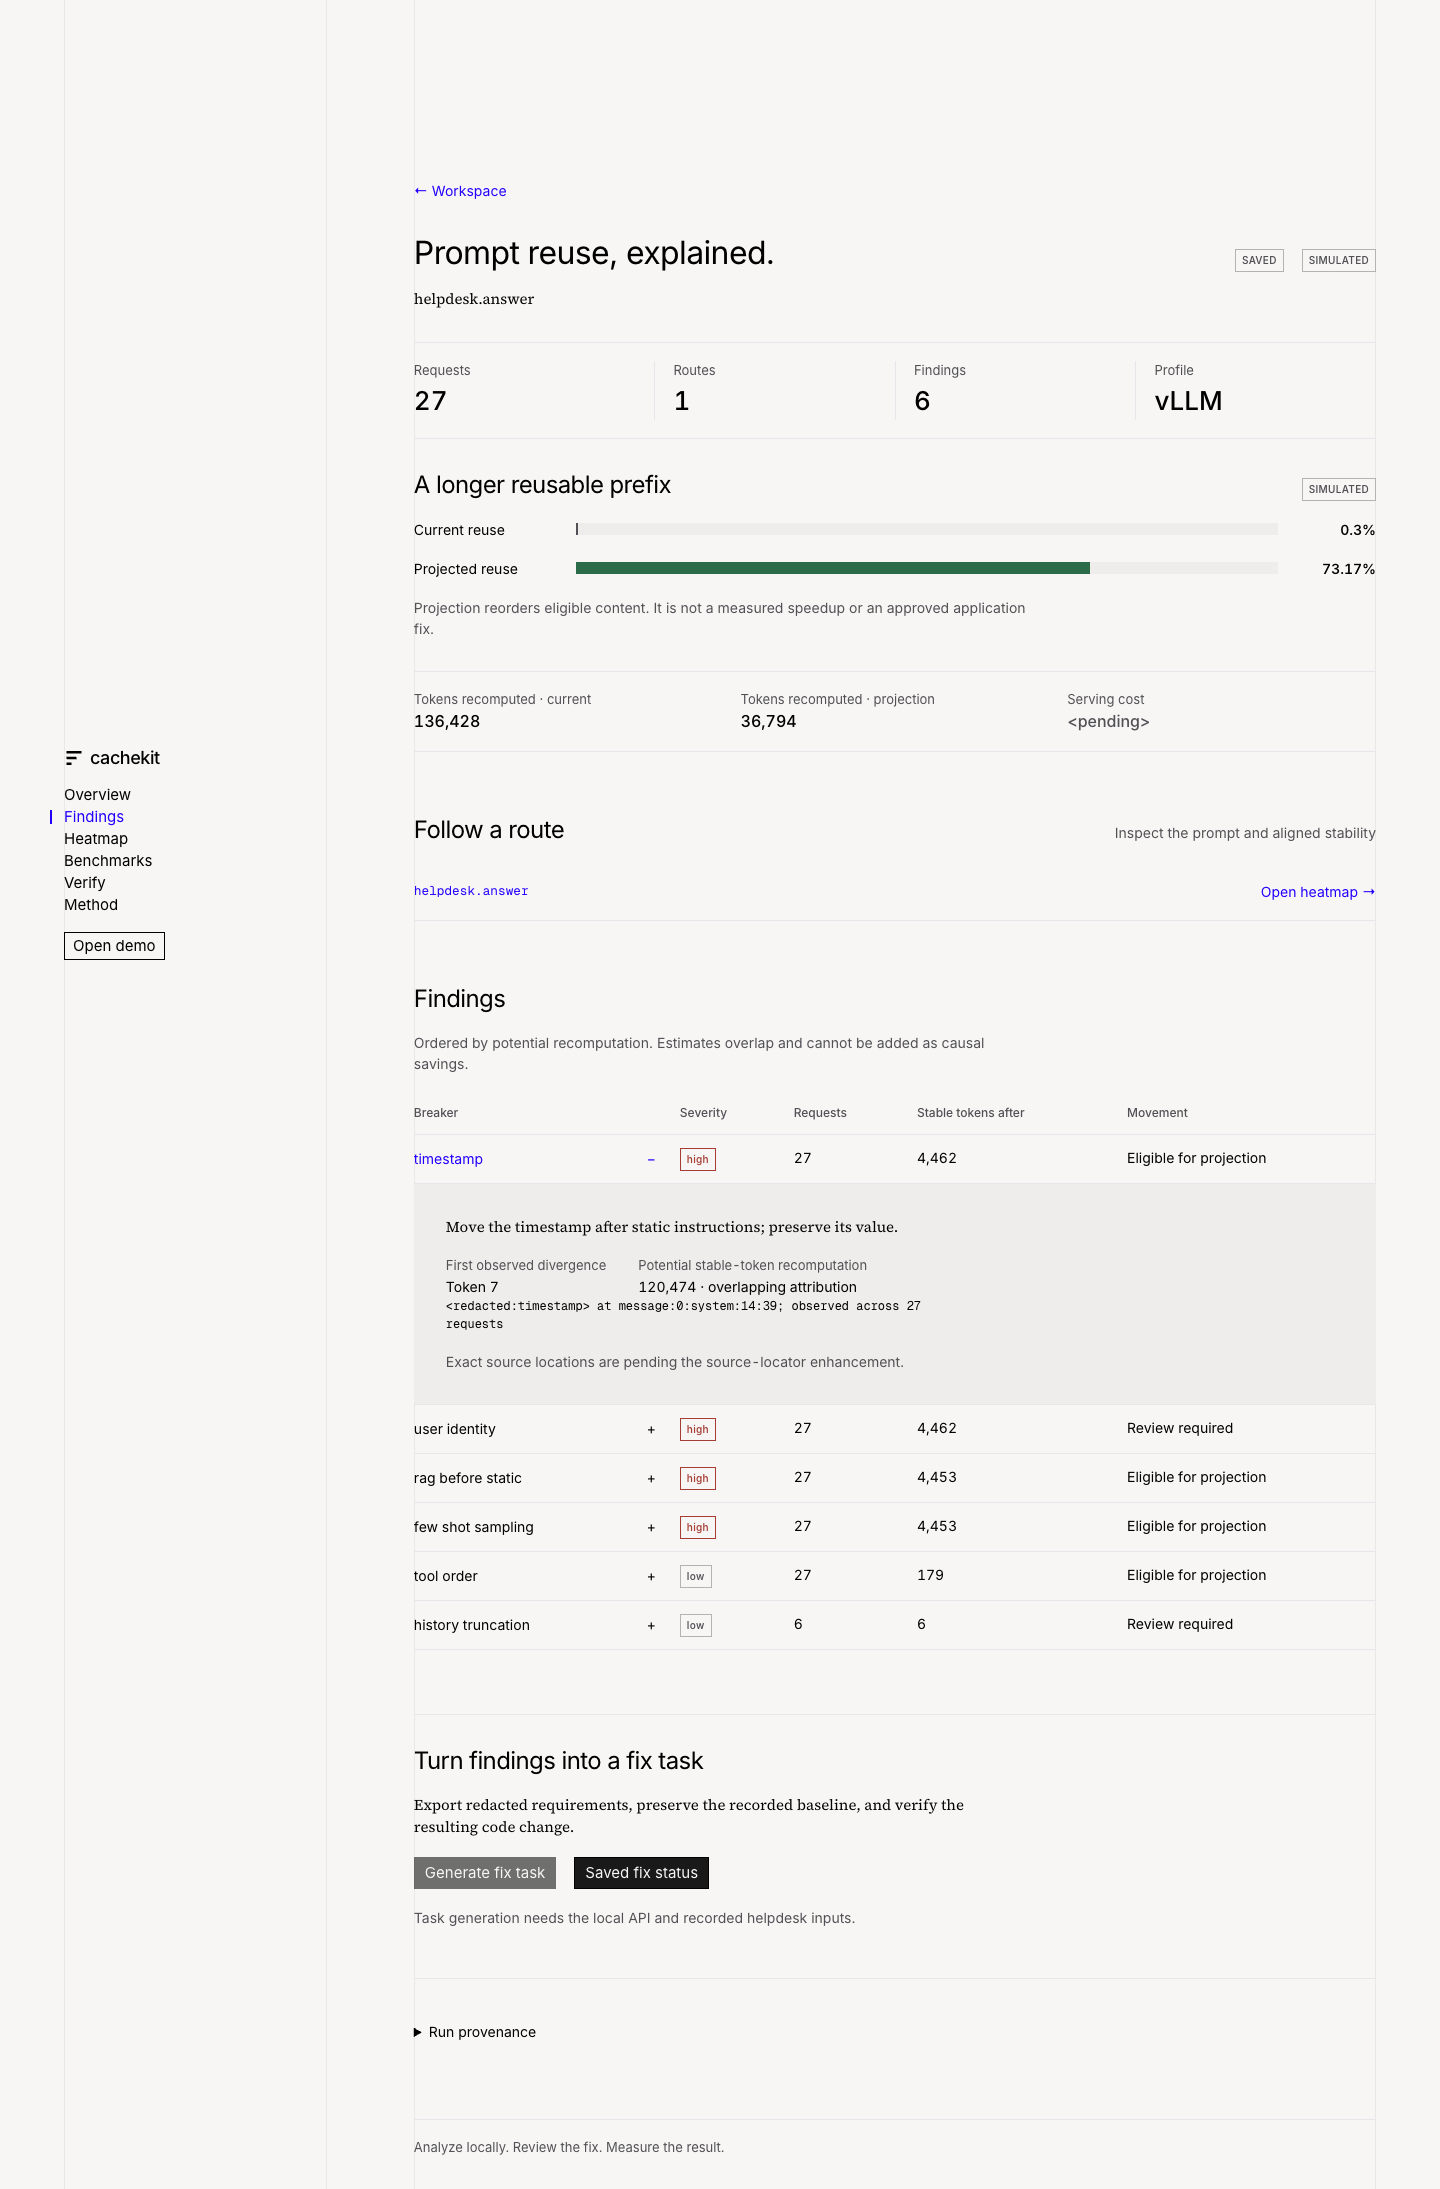
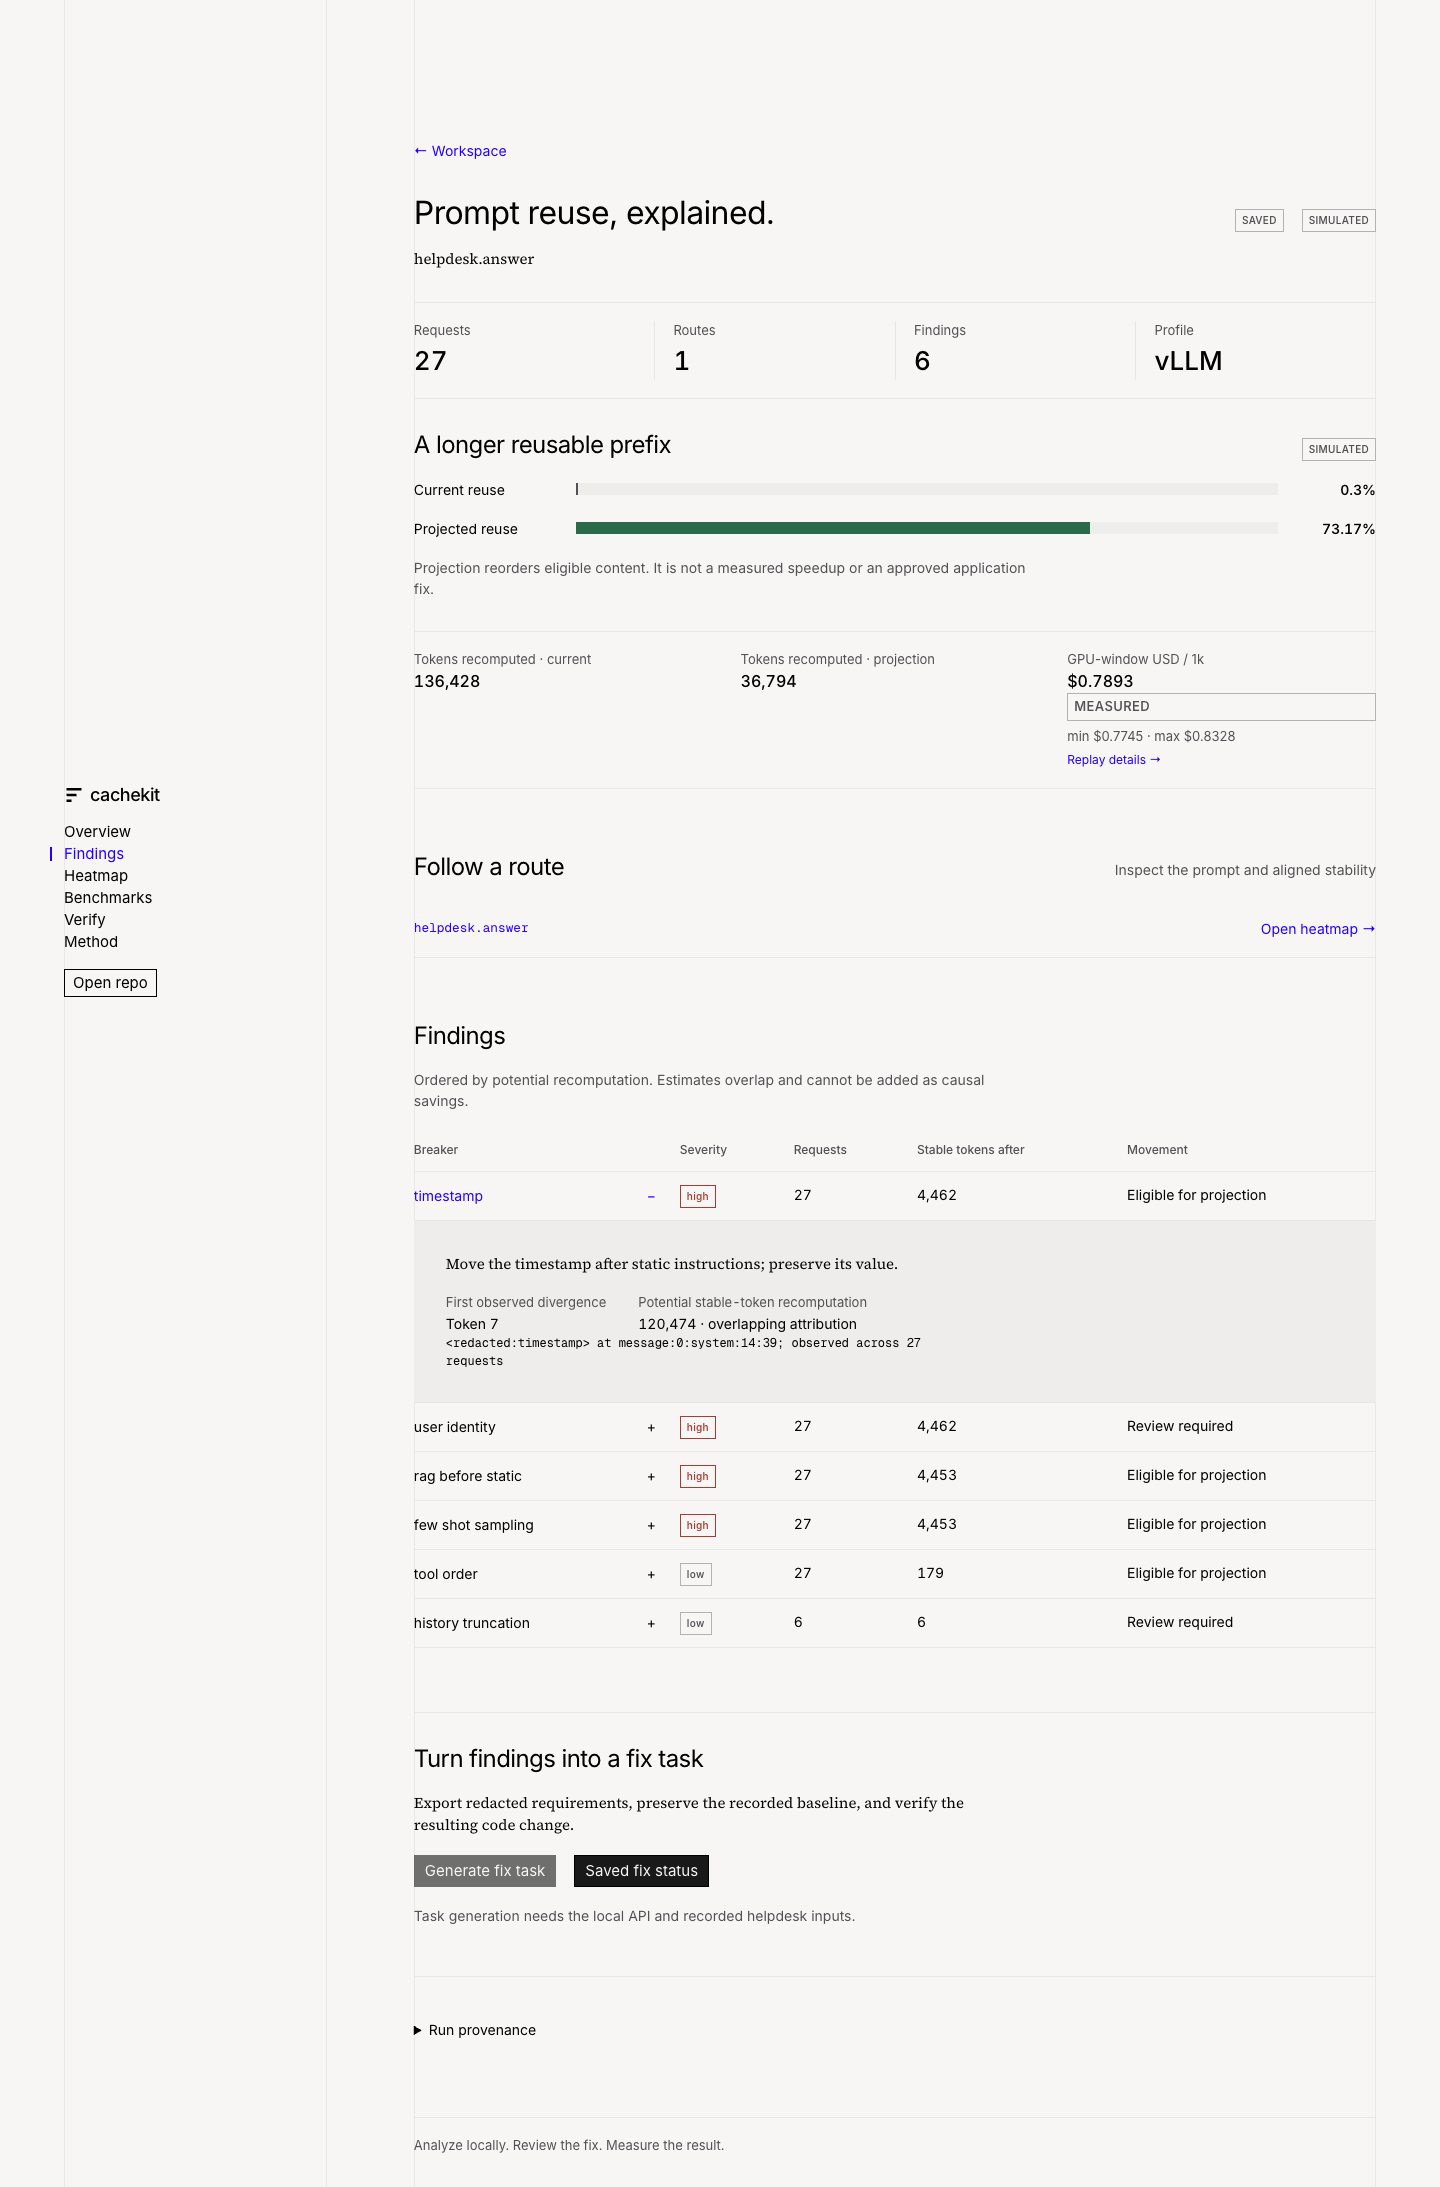
test: record clearer heatmap and navigation checks

diff --git a/AI_USAGE.md b/AI_USAGE.md
@@ -10,7 +10,7 @@ review. Exact model identifiers were not recorded.
 
 | Date and time with timezone | Tool / model | Task | Assistance and affected files | Human review / corrections | Validation and result |
 | --- | --- | --- | --- | --- | --- |
-| 2026-10-25T04:12:55+05:30 | Codex | Replace sidebar demo action | Linked Open repo to the actual public repository; inspected suggested Anatomy reference and retained the existing animation within the hard stop | Explicit user request; parallel OpenCode scope pending | Web checks and actual desktop/mobile link readback follow in UI feedback evidence; no new Devin session |
+| 2026-10-25T04:12:55+05:30 | Codex | Replace sidebar demo action | Linked Open repo to the actual public repository; inspected suggested Anatomy reference and retained the existing animation within the hard stop | Explicit user request; OpenCode owns report switching and GPT Researcher experiment separately | Full 161 Python/five web checks and actual desktop/mobile link readback pass; initial nonexistent npm check alias corrected to documented script; no new Devin session |
 | 2026-10-25T03:58:26+05:30 | Codex | Apply final spacing, contrast and cost feedback | Raised content, added distinct tile colors plus slash/dot cues, showed request-matched actual GPU-window cost and reused benchmark loading | Human requested these corrections; final visual review pending | 161 Python tests, five web tests, Ruff, typecheck/lint/build and actual live/offline desktop/mobile checks pass; final frozen-source behavioral verification remains outstanding; no new Devin session |
 | 2026-10-25T03:38:18+05:30 | Codex | Improve heatmap readability and missing-data states | Added conservative grouped squares and exact cursor placement; exposed hash-matched read-only saved AFTER while keeping live approval strict; audited available runs | Mohith rejected the dense grid and asked about missing data; final visual review pending | Grouping/marker and saved-playback negative regressions added; actual data audit confirms runs/cases are present; final checks follow |
 | 2026-10-25T03:26:24+05:30 | Codex | Correct rejected UI proportions | Inspected live desktop/mobile reference; rebuilt grid, reading column, editorial overview, side rail and mobile Menu with licensed substitutes | Mohith rejected the initial layout; rebuilt visual acceptance pending | Web typecheck/lint/build pass; actual reference/app dimensions recorded; final complete checks and recaptures follow |

diff --git a/CHANGELOG.md b/CHANGELOG.md
@@ -6,8 +6,12 @@
   authorized public GitHub repository in a separate tab on desktop and mobile.
 - Reviewed the suggested Anatomy illustration approach; its smallest documented
   build exceeds the remaining UI window, so the working SVG/GSAP comparison stays.
-- Validation: web checks and actual navigation readback follow in the UI feedback
-  evidence. OpenCode is running in parallel; its scope has not been confirmed.
+- Validation: the documented full check passes (161 Python / five web tests,
+  Ruff and web typecheck/lint/build). Twelve refreshed captures and actual
+  desktop/mobile repository-link readback pass. The initial nonexistent npm
+  check alias was replaced by the documented check script.
+- Concurrent OpenCode work owns report switching and the GPT Researcher
+  experiment; it is excluded from this checkpoint and not claimed verified.
 
 ## 2026-10-25T03:58:26+05:30 — Raise content and distinguish heatmap states
 
